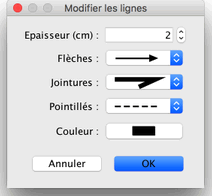
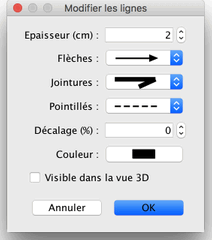
Updates for version 6.0

diff --git a/SweetHome3D/src/com/eteks/sweethome3d/viewcontroller/resources/help/fr/editingFurniture.html b/SweetHome3D/src/com/eteks/sweethome3d/viewcontroller/resources/help/fr/editingFurniture.html
@@ -101,7 +101,7 @@
                       <td><p>L'indicateur de taille montre le coin que vous pouvez glisser-d&eacute;poser pour modifier
                           la largeur et la profondeur du meuble s&eacute;lectionn&eacute;. L'utilisation de cet indicateur sur un 
                           meuble pivot&eacute; autour d'un axe horizontal ou en maintenant la touche <i>Majuscule</i> enfonc&eacute;e
-                          modifiera proportionnellement la largeur, la profondeur et la hauteur du meuble s&eacute;lectionn&eacute;.</p>
+                          modifiera proportionnellement la largeur, la profondeur et la hauteur du meuble s&eacute;lectionn&eacute;. Cet indicateur permet aussi de ne redimensionner le meuble s&eacute;lectionn&eacute; qu'en largeur ou en profondeur quand la touche <i> Ctrl</i> (ou <i>alt </i>sous Mac OS X) est enfonc&eacute;e.</p>
                       </td>
                     </tr>
                   </table>
@@ -134,7 +134,7 @@ Les meubles modifi&eacute;s avec la souris sont dessin&eacute;s simultan&eacute;
 	    (ou si les meubles s&eacute;lectionn&eacute;s sont tous les m&ecirc;mes), vous pouvez aussi cliquer sur le bouton <i>Modifier</i> en regard de l'option <i>Mat&eacute;riaux</i>, pour remplacer chaque couleur ou chaque texture du meuble par celle de votre choix. </p>
 	    <p align="center"><img src="images/editingMaterials.png" alt="Modify furniture"></p>
 	    <p>Le panneau <i>Mat&eacute;riaux du mobilier</i> affiche la liste des mat&eacute;riaux que vous pouvez modifier, ainsi qu'un aper&ccedil;u 3D des modifications de couleur et de texture en cours, les mat&eacute;riaux n'ayant pas toujours des noms clairs ou en fran&ccedil;ais (comme <i>bone2</i> &agrave; la place de <i>matelas</i> ou <i>flyellow</i> &agrave; la place de <i>cadre de lit </i> dans la figure pr&eacute;c&eacute;dente). 
-      Si besoin, vous pouvez aussi faire tourner l'objet dans l'aper&ccedil;u 3D &agrave; l'aide de  la souris.</p></td>
+      Si besoin, vous pouvez aussi faire tourner l'objet dans l'aper&ccedil;u 3D &agrave; l'aide de  la souris et modifier plusieurs mat&eacute;riaux en m&ecirc;me temps en effectuant une s&eacute;lection multiple dans la liste.</p></td>
 	</tr>
 </table>
 <div id="taskbox">
@@ -153,6 +153,10 @@ Les meubles modifi&eacute;s avec la souris sont dessin&eacute;s simultan&eacute;
                   Modifier...</i>. Les valeurs des attributs diff&eacute;rentes 
                   d'un meuble &agrave; l'autre dans l'ensemble des meubles s&eacute;lectionn&eacute;s, 
                   appara&icirc;tront vides dans le panneau des meubles.</td>
+            </tr>
+            <tr valign="top">
+              <td><p>&#149;</p></td>
+              <td><p>Quand une devise est choisie dans le panneau des <a href="editingPreferences.html">pr&eacute;f&eacute;rences</a>, le panneau de modification des meubles permet aussi de donner un prix et un pourcentage de TVA &agrave; appliquer au mobilier s&eacute;lectionn&eacute;. </td>
             </tr>
             <tr valign="top"> 
               <td> <p>&#149;</p></td>

diff --git a/SweetHome3D/src/com/eteks/sweethome3d/viewcontroller/resources/help/en/editingFurniture.html b/SweetHome3D/src/com/eteks/sweethome3d/viewcontroller/resources/help/en/editingFurniture.html
@@ -92,7 +92,7 @@
                       </td>
                       <td><p>The size indicator shows the corner you can drag  to change the width and the depth
                           of the selected piece. Dragging this indicator  on a horizontally rotated piece or while pressing the <i>Shift</i> 
-                          key will proportionally update the width, depth and height of the selected piece. </p>
+                          key will proportionally update the width, depth and height of the selected piece. This indicator lets you also resize the selected piece  only along its width or depth when the<i> Ctrl</i> key (<i>alt </i>key under Mac OS X) is pressed.</p>
                       </td>
                     </tr>
                   </table>
@@ -124,7 +124,7 @@
 	    <p>The <i>Furniture materials</i> pane displays the list of materials you can edit, and a 3D preview 
 	    of the color and texture changes you made, because materials may not always have  some clear or translated names 
 	    (like <i>bone2</i> instead of <i>mattress</i> or <i>flyellow</i> instead of <i>frame</i> in the previous figure). 
-      You can also  rotate the object in the 3D preview with the mouse if necessary.</p></td>
+      When necessary, you can also  rotate the object in the 3D preview with the mouse and  modify more than a material at the same time after selecting them in the list.</p></td>
 	</tr>
 </table>
 <div id="taskbox">
@@ -145,6 +145,10 @@
                   The values of the attributes that are different from one piece 
                   to another in the selected furniture set, will appear blank 
               in the furniture pane.</td>
+            </tr>
+            <tr valign="top">
+              <td><p>&#149;</p></td>
+              <td><p>When  a currency is chosen in the <a href="editingPreferences.html">preferences</a> pane, the furniture modification pane lets you also enter the price and the VAT / Sales tax / GST percentage of the selected furniture. </td>
             </tr>
             <tr valign="top"> 
               <td> <p>&#149;</p></td>

diff --git a/SweetHome3D/src/com/eteks/sweethome3d/viewcontroller/resources/help/fr/editingPreferences.html b/SweetHome3D/src/com/eteks/sweethome3d/viewcontroller/resources/help/fr/editingPreferences.html
@@ -43,9 +43,10 @@
 	    comme dans <b>1 3/4</b>, que le programme interpr&eacute;tera comme <b>1&#190&quot;</b>. Pour les aires, l'unit&eacute; <i>Pied/Pouce/Fraction</i> affiche toujours 
 	    la valeur la plus proche en pieds carr&eacute;, tandis que l'unit&eacute; <i>Pouce/D&eacute;cimales</i> affiche des d&eacute;cimales 
 	    si besoin.</p>
-		<p> Les boutons radio <i>Dossiers de cat&eacute;gorie </i>et <i>Liste 
+		<p>La liste d&eacute;roulante <i>Devise</i> permet de choisir la devise pour les prix du mobilier. Quand une devise est choisie &agrave; place de l'option par d&eacute;faut <i>Ignorer les prix</i>, il est possible de saisir un prix dans le panneau de modification des meubles, d'afficher la colonne <i>Prix</i> dans la liste des meubles et d'obtenir le total des objets qui ont un prix sous cette liste. Si l'option <i>Utiliser la TVA</i> est s&eacute;lectionn&eacute;e, les prix des meubles s'entendent alors Hors Taxe, et il est possible de saisir un taux de TVA dans  le panneau de modification des meubles et d'afficher les colonnes suppl&eacute;mentaires <i>% TVA</i>, <i>TVA</i>, <i>Prix TTC</i> dans la liste des meubles.<br>
+		  Les boutons radio <i>Dossiers de cat&eacute;gorie </i>et <i>Liste 
           avec recherche </i>permettent de choisir le mode d'affichage du catalogue 
-          de meubles dans chaque <a href="ui.html">fen&ecirc;tre Sweet Home 3D</a>.</p>
+        de meubles dans chaque <a href="ui.html">fen&ecirc;tre Sweet Home 3D</a>.</p>
 	    <p>La bo&icirc;te &agrave; cocher <i>Fl&egrave;ches de navigation 3D</i> permet d'afficher ou non les boutons en forme de fl&egrave;ches d'aide 
           &agrave; la <a href="editing3DView.html">navigation dans la vue 3D</a>.<br>
           Quand elle est activ&eacute;e, l'option <i>Vue a&eacute;rienne centr&eacute;e sur la s&eacute;lection</i> centrera 

diff --git a/SweetHome3D/src/com/eteks/sweethome3d/viewcontroller/resources/help/fr/tips.html b/SweetHome3D/src/com/eteks/sweethome3d/viewcontroller/resources/help/fr/tips.html
@@ -40,12 +40,16 @@
                 logement, du plan du logement et de la vue 3D du logement, pour 
                 redimensionner ces panneaux.</p></td>
           </tr>
+          <tr valign="top">
+            <td><p>&#149;</p></td>
+            <td><p>Pour tester les fonctionnalit&eacute;s de Sweet Home 3D sans 
+              risque, souvenez-vous que toutes les op&eacute;rations y sont 
+              annulables except&eacute;es celles de modification des <a href="importingFurniture.html">meubles 
+                import&eacute;s</a> dans le catalogue. </p></td>
+          </tr>
           <tr valign="top"> 
             <td><p>&#149;</p></td>
-            <td> <p>Pour tester les fonctionnalit&eacute;s de Sweet Home 3D sans 
-                risque, souvenez-vous que toutes les op&eacute;rations y sont 
-                annulables except&eacute;es celles de modification des <a href="importingFurniture.html">meubles 
-                import&eacute;s</a> dans le catalogue. </p></td>
+            <td> <p>Tous les champs de saisie num&eacute;riques permettent d'entrer un calcul math&eacute;matique utilisant les op&eacute;rateurs + - * / ^ (puissance) et les fonctions LN, LOG, EXP, SQR, SQRT, COS, SIN, TAN, ARCCOS, ARCSIN, ARCTAN. Le r&eacute;sultat du calcul remplace la formule saisie aussit&ocirc;t que le champ num&eacute;rique perd le focus, et la formule ou valeur saisie s'affiche en rouge tant qu'elle est incorrecte.</p></td>
           </tr>
           <TR VALIGN="top"> 
             <TD colspan="2"> <P><B>Catalogue des meubles</B></P></TD>

diff --git a/SweetHome3D/src/com/eteks/sweethome3d/viewcontroller/resources/help/en/editingPolylines.html b/SweetHome3D/src/com/eteks/sweethome3d/viewcontroller/resources/help/en/editingPolylines.html
@@ -41,7 +41,8 @@
 				</p>
 					<p align="center"><img src="images/editingPolylines.png"></p>
 					<p>In the polylines pane, you may change&nbsp;the thickness of the selected polyline, the arrows  drawn at its ends, the style
-			  of joined lines, its dash style and its color. The last choice of the <i>Join style</i> drop down list allows to draw a curve instead of lines.</p></td>
+			  of joined lines, its dash style, the  offset to shift dash pattern at start and its color. The last choice of the <i>Join style</i> drop down list allows
+			   to draw a curve instead of lines.</p></td>
 			</tr>
 		</table>
 		<div id="taskbox">
@@ -56,7 +57,8 @@
 								<td>
 									<p>If you want to modify the style of a set of polylines, select these polylines and choose <i>Plan &gt; Modify polylines...</i>. The
 										values of the attributes that are different from one polyline to another in the selected polylines set, will appear blank in the polylines
-										pane. You may also copy the style of a polyline on other polylines, by copying it in the clipboard with <i>Edit &gt; Copy</i> menu item, then choosing <i>Edit &gt; Paste style</i> after selecting the polylines you want to modify.
+										pane. You may also copy the style of a polyline on other polylines, by copying it in the clipboard with <i>Edit &gt; Copy</i> menu item, 
+										then choosing <i>Edit &gt; Paste style</i> after selecting the polylines you want to modify.
 							  </td>
 							</tr>
 							<tr valign="top">

diff --git a/SweetHome3D/src/com/eteks/sweethome3d/viewcontroller/resources/help/en/tips.html b/SweetHome3D/src/com/eteks/sweethome3d/viewcontroller/resources/help/en/tips.html
@@ -37,11 +37,18 @@
                 catalog, home furniture list, home plan and home 3D view, to resize 
                 these panes.</p></td>
           </tr>
-          <tr valign="top"> 
+          <tr valign="top">
             <td><p>&#149;</p></td>
-            <td> <p>To test Sweet Home 3D features without risk, remember that 
-                all operations are undoable except the modification of <a href="importingFurniture.html">imported 
+            <td><p>To test Sweet Home 3D features without risk, remember that 
+              all operations are undoable except the modification of <a href="importingFurniture.html">imported 
                 furniture</a> in catalog. </p></td>
+          </tr>
+          <tr valign="top">
+            <td><p>&#149;</p></td>
+            <td><p>Numeric text fields handling numbers support mathematical expressions with the use of the operators + - * / ^ (power) 
+            and the functions LN, LOG, EXP, SQR, SQRT, COS, SIN, TAN, ARCCOS, ARCSIN, ARCTAN. The result of the expression replaces 
+            the entered text as soon as the focus is lost on the numeric text field, and the entered expression or value is displayed 
+            in red as long as  it's not correct.</p></td>
           </tr>
           <TR VALIGN="top"> 
             <TD colspan="2"> <P><B>Furniture catalog</B></P></TD>

diff --git a/SweetHome3D/src/com/eteks/sweethome3d/viewcontroller/resources/help/en/editingPreferences.html b/SweetHome3D/src/com/eteks/sweethome3d/viewcontroller/resources/help/en/editingPreferences.html
@@ -46,7 +46,12 @@
 	     program will understand as <b>1&#190&quot;</b>. For areas, the <i>Foot/Inch/Fraction</i>  always 
 	    displays the closest value in square feet, whereas the <i>Inch/Decimals</i> unit displays some decimals 
 	    when necessary.</p>
-	  <p> The <i>Category folders</i> and the <i>Searchable list</i> radio buttons 
+	  <p> The <i>Currency</i> drop down list lets you choose the currency of furniture prices. When a currency is selected instead of the <i>Ignore prices</i> 
+	  default option, you may enter a price in the furniture modification pane, display the <i>Price</i> column in the furniture list and obtain the total 
+	  price of object prices under that  list. If the option <i>Use VAT</i> (or <i>Use Sales tax</i> or <i>Use GST</i> according to your country) is selected, 
+	  furniture prices are considered as pre-tax prices, and you may enter a <i>VAT</i> / <i>Sales tax</i> / <i>GST</i> percentage in the furniture modification 
+	  pane and display additional columns related to taxes in the furniture list.<br>
+	  The <i>Category folders</i> and the <i>Searchable list</i> radio buttons 
           let you choose how the furniture catalog should be displayed in each 
         <a href="ui.html">Sweet Home 3D window</a>.</p>
 	  <p>The <i>3D navigation arrows</i> check box allows to display arrow buttons 

diff --git a/SweetHome3D/src/com/eteks/sweethome3d/viewcontroller/resources/help/fr/editingWalls.html b/SweetHome3D/src/com/eteks/sweethome3d/viewcontroller/resources/help/fr/editingWalls.html
@@ -37,7 +37,7 @@
         puis glissez-d&eacute;posez les, ou appuyez sur les  fl&egrave;ches du clavier.</p>
         <p>Quand <b>un</b> mur est s&eacute;lectionn&eacute; dans le plan, vous pouvez aussi d&eacute;placer l'une de ses extr&eacute;mit&eacute;s, 
         avec l'indicateur de taille qui appara&icirc;t &agrave; chaque extr&eacute;mit&eacute; du mur s&eacute;lectionn&eacute;.</p>
-        <p align="center"><img src="../images/wallEnds.png" width="320" height="80"></p>
+        <p align="center"><img src="../images/wallIndicators.png" width="320" height="80"></p>
     </td>
   </tr>
 </table>
@@ -66,10 +66,15 @@
             </td>
           </tr>
           <tr valign="top">
-            <td nowrap><p>4.</p>
-            </td>
+            <td nowrap><p>4.</p></td>
             <td><p>L'indicateur de taille du point de fin montre le point que vous pouvez glisser-d&eacute;poser
-                pour d&eacute;placer le point de fin du mur.</p>
+              pour d&eacute;placer le point de fin du mur.</p></td>
+          </tr>
+          <tr valign="top">
+            <td nowrap><p>5.</p>
+            </td>
+            <td><p>L'indicateur d'arrondi montre le milieu du mur que vous pouvez glisser-d&eacute;poser
+              pour modifier son secteur angulaire.</p>
             </td>
           </tr>
         </table>

diff --git a/SweetHome3D/src/com/eteks/sweethome3d/viewcontroller/resources/help/en/editingWalls.html b/SweetHome3D/src/com/eteks/sweethome3d/viewcontroller/resources/help/en/editingWalls.html
@@ -35,7 +35,7 @@
           drag and drop them, or press the keyboard arrows.</p>
         <p> When <b>one</b> wall is selected in the plan, you may also move its start and end point,  with
           the size indicator that appear at each end of the selected wall.</p>
-        <p align="center"><img src="../images/wallEnds.png" width="320" height="80"></p>
+        <p align="center"><img src="../images/wallIndicators.png" width="320" height="80"></p>
     </td>
   </tr>
 </table>
@@ -63,9 +63,13 @@
             </td>
           </tr>
           <tr valign="top">
-            <td nowrap><p>4.</p>
+            <td nowrap><p>4.</p></td>
+            <td><p>The end point size indicator shows the  point you can drag  to move the end point of the wall.</p></td>
+          </tr>
+          <tr valign="top">
+            <td nowrap><p>5.</p>
             </td>
-            <td><p>The end point size indicator shows the  point you can drag  to move the end point of the wall.</p>
+            <td><p>The roundness  indicator shows the  middle of the wall you can drag  to change its arc extent.</p>
             </td>
           </tr>
         </table>

diff --git a/SweetHome3D/src/com/eteks/sweethome3d/viewcontroller/resources/help/en/addingTexts.html b/SweetHome3D/src/com/eteks/sweethome3d/viewcontroller/resources/help/en/addingTexts.html
@@ -36,9 +36,9 @@
 	    enter its text in the pane that will appear as shown below. </p>
 	  <p align="center"><img src="images/addingText.png"></p>
 	  <p>Once a text is created, you may change its size and its style with the menu items available in <i>Plan &gt; Modify text style</i> submenu. 
-	  You may also change its text, its font, its color and its 3D rendering by  selecting the 
-	  <i>Plan &gt; Modify text</i> menu item. Selecting the <i>Visible in the 3D view</i>  check box in the modification pane will let the text appear in the 3D view too, 
-	  either horizontally or vertically oriented. </p>
+	  You may also change its text, its alignment, its font, its color and its 3D rendering by  selecting the 
+	  <i>Plan &gt; Modify text</i> menu item. Selecting the <i>Visible in the 3D view</i>  check box in the modification pane will let the text appear 
+	  in the 3D view too, either horizontally or vertically oriented. </p>
 	  <table align="center" cellspacing="5">
 	    <tr>
 	      <td><img src="../images/horizontalOrientation.jpg" border="1" ></td>

diff --git a/SweetHome3D/src/com/eteks/sweethome3d/viewcontroller/resources/help/en/addingFurniture.html b/SweetHome3D/src/com/eteks/sweethome3d/viewcontroller/resources/help/en/addingFurniture.html
@@ -69,8 +69,8 @@
               <p>&#149;</p>
             </td>
             <td>
-              <p>A piece of furniture qualified as a door or a window indicates to Sweet Home 3D to automatically make holes
-                in walls at the intersection location with doors or windows. Similarly, a staircase is able to make a hole in the ceiling and the floor of upper levels. This computation isn't made for the other kinds
+              <p>A piece of furniture qualified as a door or a window is able to automatically make holes
+                in walls at the intersection with this kind of furniture. Similarly, a staircase is able to make a hole in the ceiling and the floor of upper levels. This computation isn't made for the other kinds
               of furniture. </td>
           </tr>
           <tr valign="top">

diff --git a/SweetHome3D/src/com/eteks/sweethome3d/viewcontroller/resources/help/fr/addingTexts.html b/SweetHome3D/src/com/eteks/sweethome3d/viewcontroller/resources/help/fr/addingTexts.html
@@ -38,7 +38,7 @@
 	    </center>
 	  <p>Une fois qu'un texte est cr&eacute;&eacute;, vous pouvez modifier sa taille
 	    et son style avec les choix propos&eacute;s dans le sous-menu <i>Plan &gt; Modifier
-	      le style du texte</i>. Vous pouvez aussi modifier son contenu, sa police de caract&egrave;res, 
+	      le style du texte</i>. Vous pouvez aussi modifier son contenu, son alignement, sa police de caract&egrave;res, 
 	    sa couleur et son rendu en 3D en double-cliquant sur
 	    celui-ci dans le plan ou en s&eacute;lectionnant le menu <i>Plan &gt; Modifier le texte</i>. La s&eacute;lection de la bo&icirc;te &agrave; cocher 
 	    <i>Visible dans la vue 3D </i>dans le panneau de modification fera appara&icirc;tre le texte dans la vue 3D aussi, avec une orientation soit horizontale soit verticale. </p>
